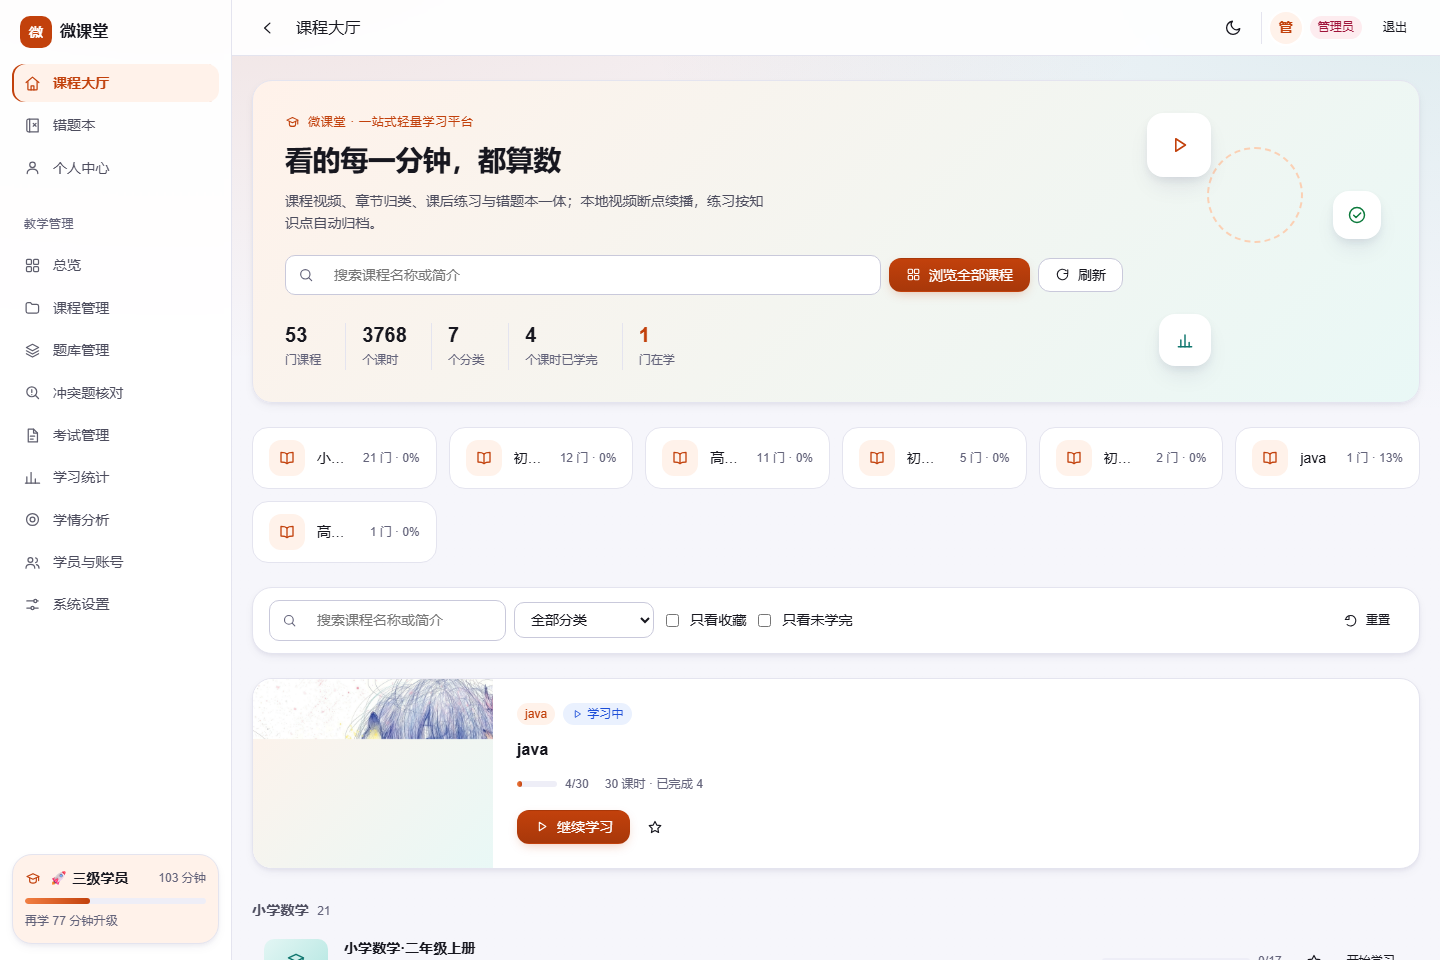
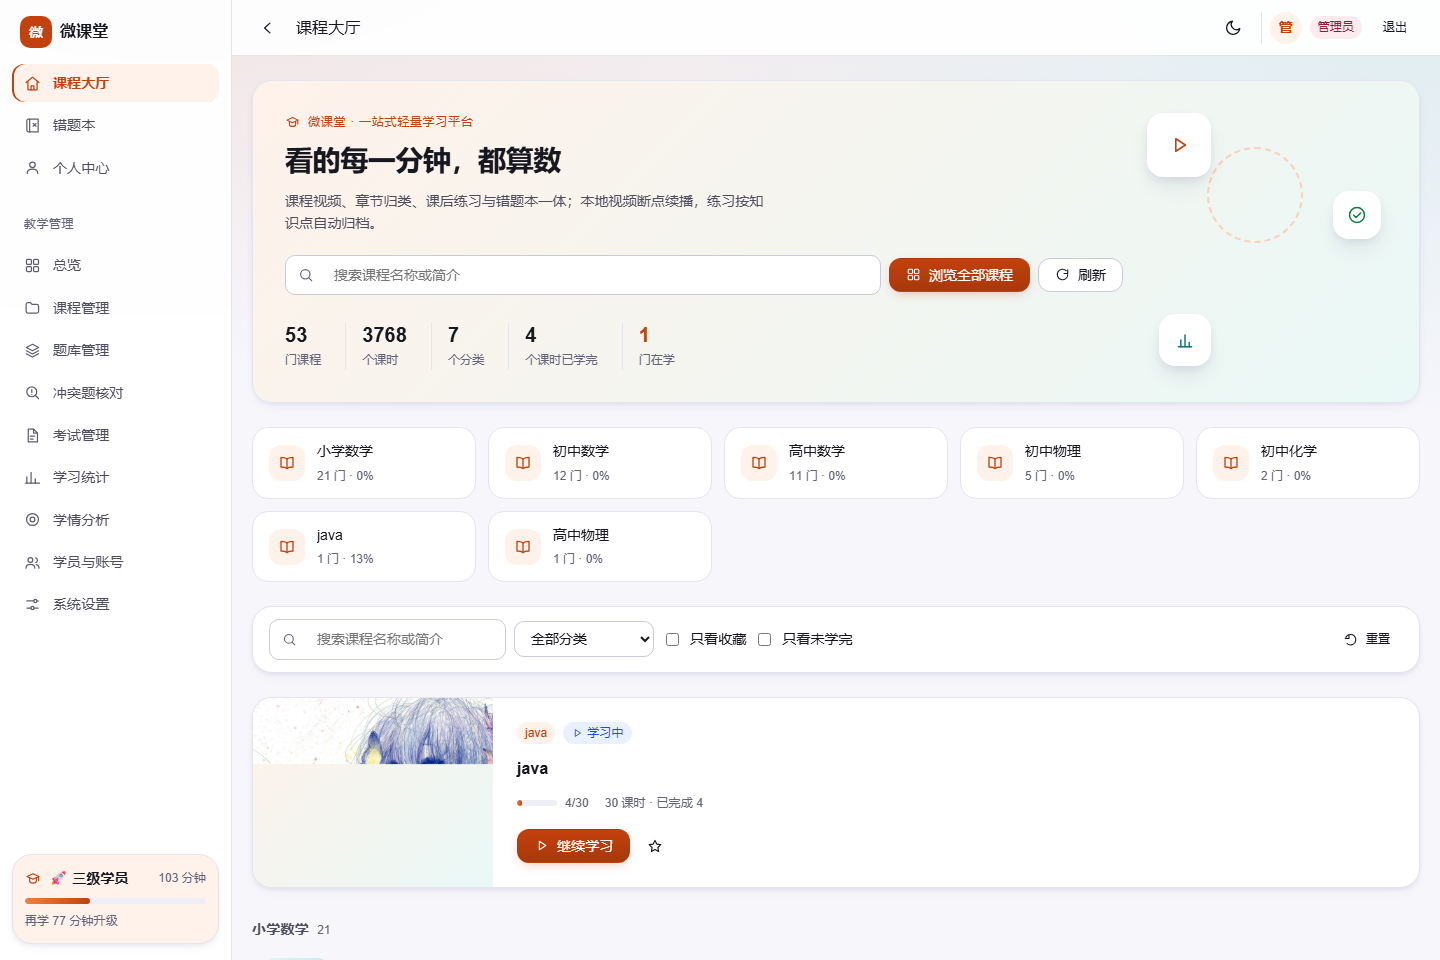
feat(web): 对标中国大学 MOOC——首页封面卡片网格 + 全站页脚
用户指定对标对象为中国大学 MOOC。按它的页面骨架逐项审计后补齐两处结构性缺口：

审计结论（MOOC 骨架 vs 本项目）：
- 课程详情页：课程概述 / 授课目标 / 课程大纲 / 讲师 已有；缺课程评价与报名人数（需后端功能，
  未搭假界面）
- 观看页：左视频 + 右目录树（含完成状态）+ 笔记 + 知识点 已对齐
- 首页：缺 MOOC 的主体「封面卡片网格」与「全站页脚」

① 首页课程呈现：封面卡片网格（默认）+ 列表（可切回）
- 卡片：16:9 封面（有封面用封面，无封面用品牌渐变 + 图标）、分类角标、已学完角标、
  课名最多两行、课时/已完成元信息、进度条、动作按钮与收藏
- 工具条加「卡片 / 列表」切换并记住选择（localStorage）
- 保留上一轮的列表模式：卡片对齐 MOOC 的门面，列表保留效率

② 全站页脚（AppShell，所有页面生效）
- 三列：平台简介 / 常用入口（大厅·错题本·个人中心·教学管理）/ 帮助（指向项目内文档）
- 底栏：版本与部署方式、数据与版权说明
- 不用假链接：入口全部是站内真实路由，帮助指向仓库内真实文档

验证：E2E 34-34 / 单测 488 / 设计门禁 12 条 / prettier + eslint + typecheck + build 全绿；
视觉基线重生成（页脚改变了全站页高）。

diff --git a/apps/web/src/views/CourseHallView.vue b/apps/web/src/views/CourseHallView.vue
@@ -33,6 +33,25 @@ interface CoursesResponse {
 const toast = useToastStore();
 const { data, loading, run } = useAsync<CoursesResponse>(() => api.get<CoursesResponse>('/courses'));
 
+/* 呈现方式：卡片（对标中国大学 MOOC 首页主体）或列表（一屏看更多） */
+const VIEW_KEY = 'mc.hall.view';
+const viewMode = ref<'cards' | 'list'>(readViewMode());
+function readViewMode(): 'cards' | 'list' {
+  try {
+    return window.localStorage.getItem(VIEW_KEY) === 'list' ? 'list' : 'cards';
+  } catch {
+    return 'cards';
+  }
+}
+function setViewMode(next: 'cards' | 'list'): void {
+  viewMode.value = next;
+  try {
+    window.localStorage.setItem(VIEW_KEY, next);
+  } catch {
+    /* 隐私模式下忽略 */
+  }
+}
+
 const keyword = ref('');
 const categoryId = ref<number | ''>('');
 const onlyFav = ref(false);
@@ -245,6 +264,30 @@ function resetFilters(): void {
         <span v-if="keyword || categoryId !== '' || onlyFav || onlyUnfinished" class="mc-muted hall__count">
           筛选出 {{ filtered.length }} / {{ courses.length }} 门
         </span>
+        <div class="hall__views" role="group" aria-label="呈现方式">
+          <button
+            class="mc-btn mc-btn--sm mc-btn--icon"
+            :class="viewMode === 'cards' ? 'mc-btn--soft' : 'mc-btn--ghost'"
+            type="button"
+            :aria-pressed="viewMode === 'cards'"
+            aria-label="卡片展示"
+            title="卡片展示"
+            @click="setViewMode('cards')"
+          >
+            <Icon name="grid" :size="15" />
+          </button>
+          <button
+            class="mc-btn mc-btn--sm mc-btn--icon"
+            :class="viewMode === 'list' ? 'mc-btn--soft' : 'mc-btn--ghost'"
+            type="button"
+            :aria-pressed="viewMode === 'list'"
+            aria-label="列表展示"
+            title="列表展示"
+            @click="setViewMode('list')"
+          >
+            <Icon name="list" :size="15" />
+          </button>
+        </div>
         <button class="mc-btn mc-btn--sm mc-btn--ghost" type="button" @click="resetFilters">
           <Icon name="reset" :size="15" />
           重置
@@ -339,7 +382,75 @@ function resetFilters(): void {
           <span class="hall__group-count mc-num">{{ group.list.length }}</span>
         </header>
 
-        <ul class="hall__list">
+        <!-- 卡片网格：对标 MOOC 首页主体（封面 + 名称 + 元信息 + 进度 + 动作） -->
+        <div v-if="viewMode === 'cards'" class="hall__cards">
+          <article
+            v-for="course in group.list"
+            :key="course.id"
+            class="course-card course-card--tile mc-card mc-card--interactive"
+            :class="`course-card--g${Math.abs(course.id) % 6}`"
+          >
+            <RouterLink
+              class="course-card__cover"
+              :to="{ name: 'course', params: { id: course.id } }"
+              tabindex="-1"
+              :aria-label="`进入课程 ${course.name}`"
+            >
+              <img v-if="course.cover" :src="`/api/v1/course-cover/${course.id}`" :alt="course.name" loading="lazy" />
+              <span v-else class="course-card__cover-fallback" aria-hidden="true">
+                <Icon name="graduation" :size="30" />
+              </span>
+              <span v-if="course.category_name" class="course-card__cover-chip">{{ course.category_name }}</span>
+              <span v-if="progressOf(course) >= 100" class="course-card__cover-done">
+                <Icon name="check" :size="13" />
+                已学完
+              </span>
+            </RouterLink>
+
+            <div class="course-card__tile-body">
+              <RouterLink class="course-card__name" :to="{ name: 'course', params: { id: course.id } }">
+                {{ course.name }}
+              </RouterLink>
+              <div class="course-card__meta">
+                <span class="course-card__stat">
+                  <Icon name="video" :size="13" />
+                  {{ course.total ?? 0 }} 课时
+                </span>
+                <span class="course-card__stat">
+                  <Icon name="check-circle" :size="13" />
+                  已完成 {{ course.finished ?? 0 }}
+                </span>
+                <Tag v-if="course.published !== 1" tone="warning" size="sm">草稿</Tag>
+              </div>
+              <ProgressBar
+                :value="progressOf(course)"
+                :tone="progressOf(course) >= 100 ? 'success' : 'primary'"
+                :label="`${course.finished ?? 0}/${course.total ?? 0}`"
+              />
+              <div class="course-card__tile-actions">
+                <RouterLink
+                  class="mc-btn mc-btn--sm"
+                  :class="progressOf(course) > 0 ? 'mc-btn--soft' : 'mc-btn--ghost'"
+                  :to="{ name: 'course', params: { id: course.id } }"
+                >
+                  {{ progressOf(course) > 0 ? '继续学习' : '开始学习' }}
+                </RouterLink>
+                <button
+                  class="mc-btn mc-btn--ghost mc-btn--sm mc-btn--icon"
+                  :class="{ 'course-card__fav--on': course.fav }"
+                  type="button"
+                  :aria-label="course.fav ? '取消收藏' : '收藏课程'"
+                  :title="course.fav ? '取消收藏' : '收藏课程'"
+                  @click="toggleFav(course)"
+                >
+                  <Icon name="star" :size="16" :filled="course.fav" />
+                </button>
+              </div>
+            </div>
+          </article>
+        </div>
+
+        <ul v-else class="hall__list">
           <li
             v-for="course in group.list"
             :key="course.id"
@@ -915,6 +1026,117 @@ function resetFilters(): void {
 
 .course-card__fav--on {
   color: var(--mc-warning-fg);
+}
+
+/* ---------- 卡片网格（MOOC 式）---------- */
+.hall__views {
+  display: flex;
+  gap: var(--mc-space-1);
+}
+
+.hall__cards {
+  display: grid;
+  grid-template-columns: repeat(auto-fill, minmax(232px, 1fr));
+  gap: var(--mc-space-4);
+}
+
+.course-card--tile {
+  display: flex;
+  flex-direction: column;
+  overflow: hidden;
+  padding: 0;
+}
+
+.course-card__cover {
+  position: relative;
+  display: flex;
+  align-items: center;
+  justify-content: center;
+  aspect-ratio: 16 / 9;
+  overflow: hidden;
+  background-image: var(--mc-gradient-brand-soft);
+  color: var(--mc-primary-fg);
+}
+
+.course-card__cover img {
+  width: 100%;
+  height: 100%;
+  object-fit: cover;
+}
+
+.course-card--g1 .course-card__cover {
+  color: var(--mc-accent-fg);
+}
+.course-card--g2 .course-card__cover {
+  color: var(--mc-success-fg);
+}
+.course-card--g3 .course-card__cover {
+  color: var(--mc-warning-fg);
+}
+.course-card--g5 .course-card__cover {
+  color: var(--mc-seal-fg);
+}
+
+.course-card__cover-fallback {
+  display: inline-flex;
+  align-items: center;
+  justify-content: center;
+  width: 60px;
+  height: 60px;
+  border-radius: var(--mc-radius-lg);
+  background: var(--mc-bg-elevated);
+  box-shadow: var(--mc-shadow-sm);
+}
+
+.course-card__cover-chip {
+  position: absolute;
+  top: var(--mc-space-2);
+  left: var(--mc-space-2);
+  padding: var(--mc-space-1) var(--mc-space-2);
+  border-radius: var(--mc-radius-pill);
+  background: var(--mc-bg-elevated);
+  font-size: var(--mc-text-xs);
+  color: var(--mc-text-secondary);
+}
+
+.course-card__cover-done {
+  position: absolute;
+  right: var(--mc-space-2);
+  bottom: var(--mc-space-2);
+  display: inline-flex;
+  align-items: center;
+  gap: var(--mc-space-1);
+  padding: var(--mc-space-1) var(--mc-space-2);
+  border-radius: var(--mc-radius-pill);
+  background: var(--mc-success-soft);
+  font-size: var(--mc-text-xs);
+  color: var(--mc-success-fg);
+}
+
+.course-card__tile-body {
+  display: flex;
+  flex-direction: column;
+  gap: var(--mc-space-2);
+  padding: var(--mc-space-4);
+  min-width: 0;
+}
+
+.course-card__tile-actions {
+  display: flex;
+  align-items: center;
+  gap: var(--mc-space-1);
+  margin-top: var(--mc-space-1);
+}
+
+/* 卡片里的课名允许两行（MOOC 的课名通常较长） */
+.course-card--tile .course-card__name {
+  display: -webkit-box;
+  -webkit-line-clamp: 2;
+  line-clamp: 2;
+  -webkit-box-orient: vertical;
+  overflow: hidden;
+  white-space: normal;
+  min-height: calc(var(--mc-text-base) * 1.5 * 2);
 }
 
 /* ---------- 加载骨架 ---------- */

diff --git a/apps/web/src/layouts/AppShell.vue b/apps/web/src/layouts/AppShell.vue
@@ -185,6 +185,34 @@ const levelProgress = computed(() => {
           <component :is="Component" @refresh-summary="summary = null" />
         </RouterView>
       </main>
+
+      <footer class="footer">
+        <div class="footer__cols">
+          <section class="footer__col">
+            <h2 class="footer__title">微课堂</h2>
+            <p class="footer__text">
+              自托管轻量学习平台：课程视频、章节归类、课后练习与错题本一体，学习数据保存在你自己的机器上。
+            </p>
+          </section>
+          <nav class="footer__col" aria-label="常用入口">
+            <h2 class="footer__title">常用入口</h2>
+            <RouterLink class="footer__link" :to="{ name: 'hall' }">课程大厅</RouterLink>
+            <RouterLink class="footer__link" :to="{ name: 'wrong-book' }">错题本</RouterLink>
+            <RouterLink class="footer__link" :to="{ name: 'me' }">个人中心</RouterLink>
+            <RouterLink v-if="auth.isAdmin" class="footer__link" :to="{ name: 'admin-overview' }">教学管理</RouterLink>
+          </nav>
+          <nav class="footer__col" aria-label="帮助与文档">
+            <h2 class="footer__title">帮助</h2>
+            <span class="footer__text">部署维护：docs/deploy.md</span>
+            <span class="footer__text">视频与媒体目录：docs/video.md</span>
+            <span class="footer__text">界面规范：docs/design-guidelines.md</span>
+          </nav>
+        </div>
+        <div class="footer__bar">
+          <span>微课堂 v2.0.0 · 自托管部署</span>
+          <span>数据仅存于本机；课程内容版权归各自权利人所有。</span>
+        </div>
+      </footer>
     </div>
 
     <div v-if="mobileNavOpen" class="sidebar-backdrop" @click="mobileNavOpen = false" />
@@ -192,6 +220,67 @@ const levelProgress = computed(() => {
 </template>
 
 <style scoped>
+.footer {
+  padding: var(--mc-space-8) var(--mc-space-6) var(--mc-space-6);
+  border-top: 1px solid var(--mc-border);
+  background: var(--mc-bg-elevated);
+}
+
+.footer__cols {
+  display: grid;
+  grid-template-columns: minmax(0, 2fr) minmax(0, 1fr) minmax(0, 1.4fr);
+  gap: var(--mc-space-8);
+  max-width: 1080px;
+}
+
+.footer__col {
+  display: flex;
+  flex-direction: column;
+  gap: var(--mc-space-2);
+  min-width: 0;
+}
+
+.footer__title {
+  font-size: var(--mc-text-sm);
+  font-weight: var(--mc-font-semibold);
+  color: var(--mc-text);
+}
+
+.footer__text {
+  margin: 0;
+  font-size: var(--mc-text-xs);
+  line-height: var(--mc-leading-relaxed);
+  color: var(--mc-text-muted);
+}
+
+.footer__link {
+  font-size: var(--mc-text-xs);
+  color: var(--mc-text-secondary);
+  width: fit-content;
+}
+
+.footer__link:hover {
+  color: var(--mc-primary-fg);
+}
+
+.footer__bar {
+  display: flex;
+  flex-wrap: wrap;
+  gap: var(--mc-space-2) var(--mc-space-6);
+  margin-top: var(--mc-space-6);
+  padding-top: var(--mc-space-4);
+  border-top: 1px solid var(--mc-border);
+  font-size: var(--mc-text-xs);
+  color: var(--mc-text-muted);
+}
+
+@media (max-width: 900px) {
+  .footer__cols {
+    grid-template-columns: 1fr;
+    gap: var(--mc-space-6);
+  }
+}
+
 .shell {
   display: flex;
   min-height: 100%;
